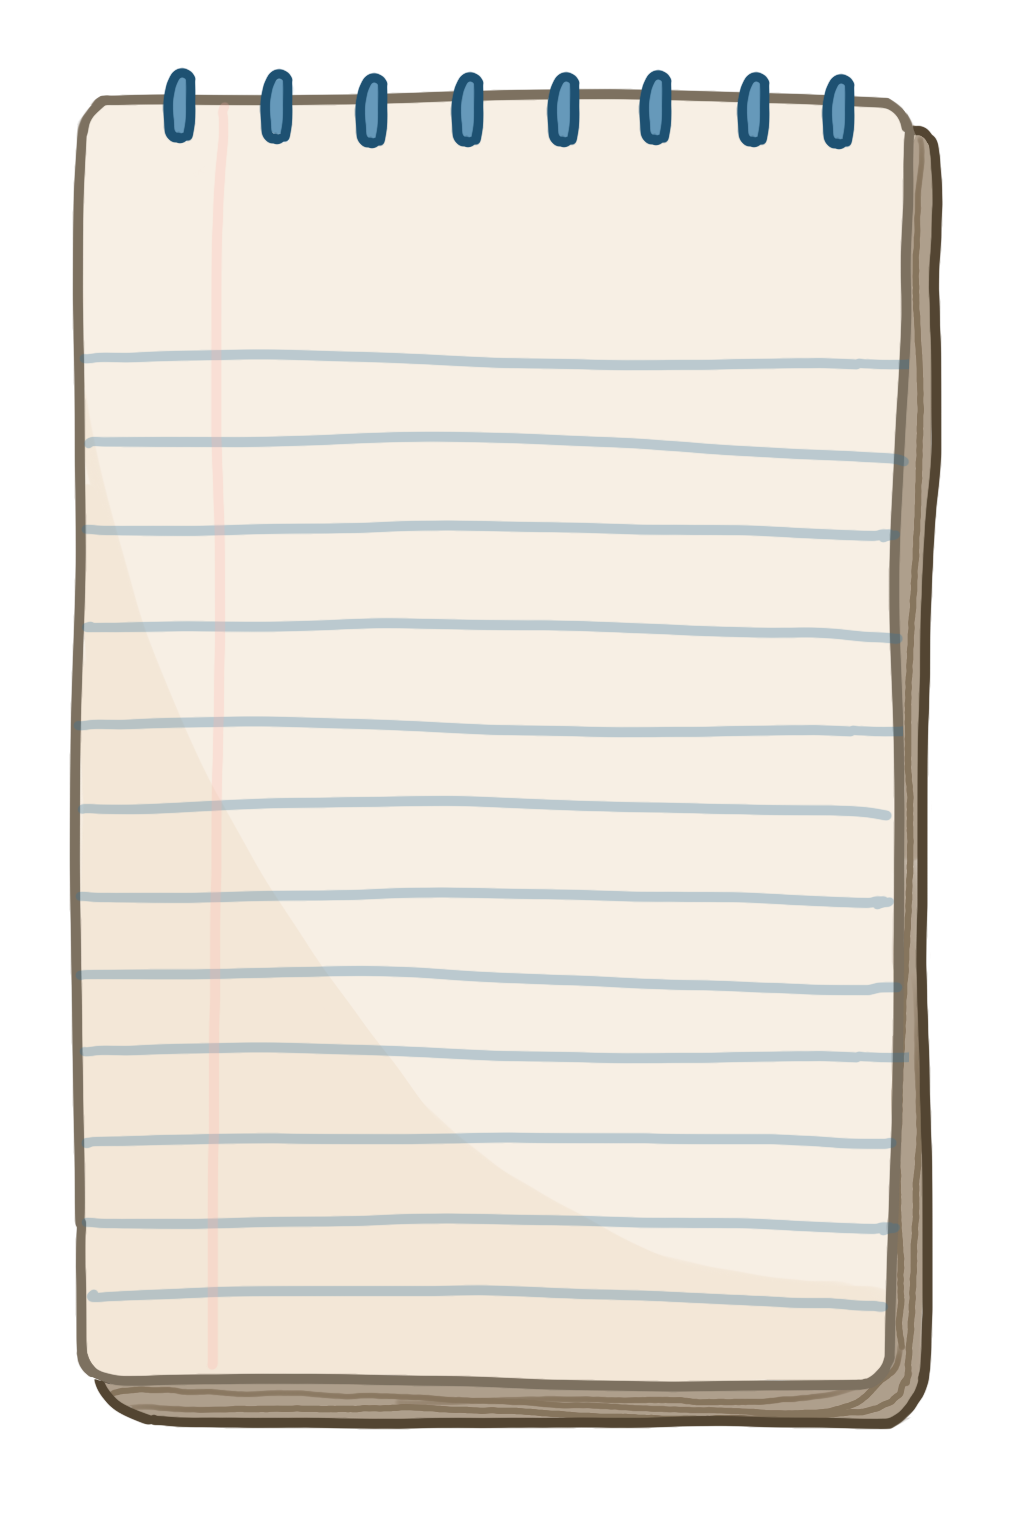
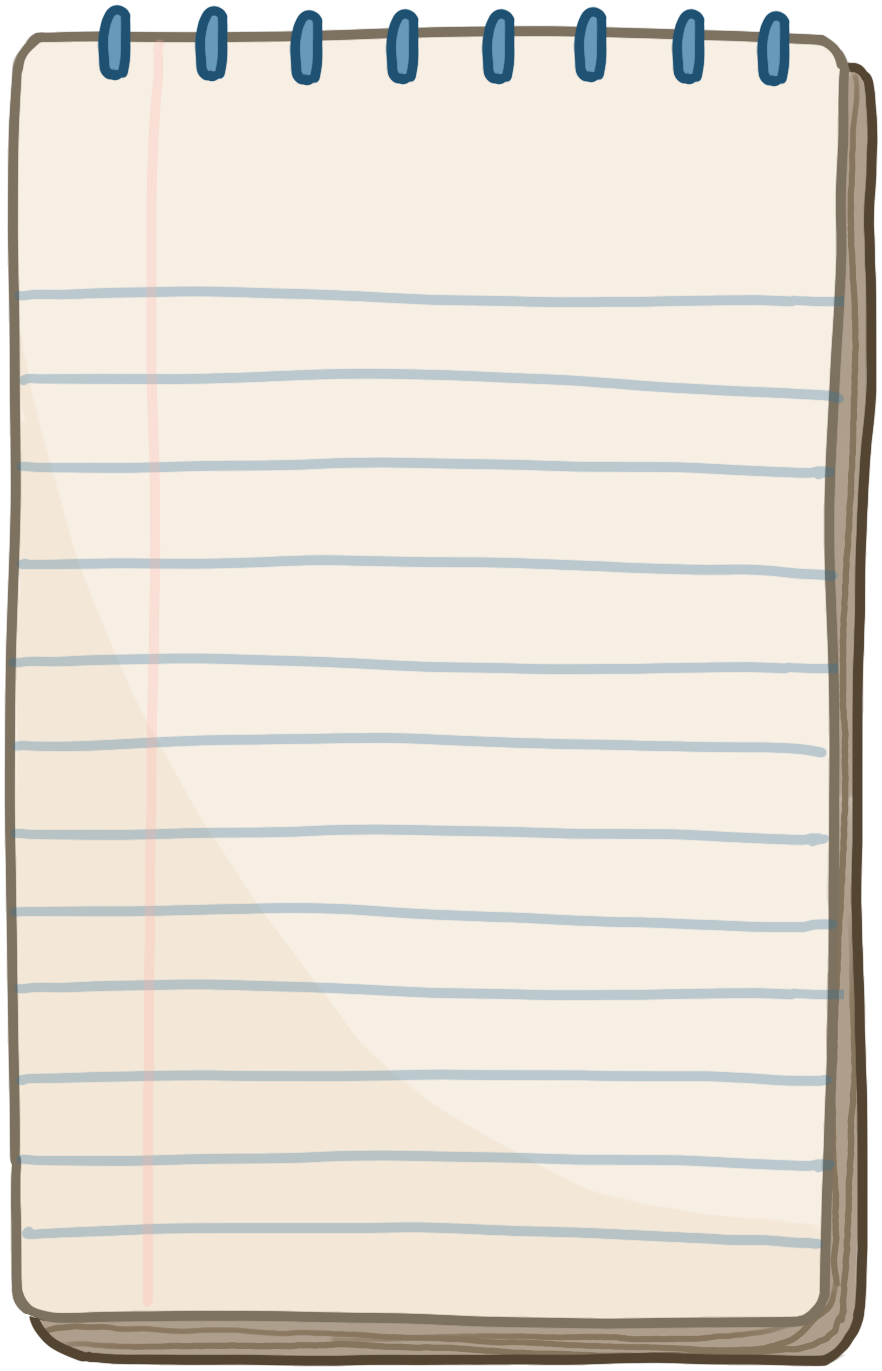
Handwrite the lab instructions on a bigger notebook, Restart pinned to its corner
- Patrick Hand (OFL, bundled from @fontsource so it works offline) for the
  writing on the page; buttons and the answer box keep the app's font.
- The notebook picture is trimmed of its empty border and drawn a little
  wider, so the page and its writing are larger at the same height.
- Restart lab sits at the bottom-right of the page and stays there.
- The note about answers being transcribed and saved is gone.

diff --git a/web/src/ui/LessonStrip.tsx b/web/src/ui/LessonStrip.tsx
@@ -117,13 +117,13 @@ function LessonStrip({ part }: { part: 'bar' | 'panel' }) {
   return (
     <>
       {mode === 'lab' && (
-        // The lesson is written on a notebook page (assets/Notebook.png). The picture keeps its
-        // shape: on a wide screen it is as tall as the mat beside it, and its type grows and
-        // shrinks with it (cqw: a share of the notebook's width), so the page reads the same
-        // on the laptop and on the projector.
+        // The lesson is handwritten on a notebook page (assets/Notebook.png). On a wide screen
+        // it is as tall as the mat beside it, drawn a little wider than the picture (7:10, not
+        // 0.64) so the writing has room. Its type grows and shrinks with it (cqw: a share of
+        // the notebook's width), so the page reads the same on the laptop and the projector.
         <section
           aria-label="Lesson"
-          className="@container relative aspect-[1010/1517] w-full max-w-md shrink-0 self-center lg:h-full lg:w-auto lg:max-w-none"
+          className="@container relative aspect-[7/10] w-full max-w-lg shrink-0 self-center lg:h-full lg:w-auto lg:max-w-none"
         >
           <img
             src={notebookUrl}
@@ -134,13 +134,13 @@ function LessonStrip({ part }: { part: 'bar' | 'panel' }) {
           />
           {/* The writable part of the page: right of the red margin, below the rings. */}
           <div
-            className="absolute overflow-y-auto text-stone-800"
+            className="absolute overflow-y-auto font-['Patrick_Hand'] text-stone-800 [&_button]:font-['Space_Grotesk_Variable'] [&_input]:font-['Space_Grotesk_Variable']"
             style={{
-              left: '23%',
-              right: '13%',
-              top: '12%',
-              bottom: '10%',
-              fontSize: 'clamp(11px, 4.4cqw, 26px)',
+              left: '21%',
+              right: '9%',
+              top: '10%',
+              bottom: '14%', // room for the Restart lab button below
+              fontSize: 'clamp(13px, 5.4cqw, 32px)',
             }}
           >
             <div className="flex flex-wrap items-center justify-between gap-3">
@@ -165,19 +165,6 @@ function LessonStrip({ part }: { part: 'bar' | 'panel' }) {
                       : 'Connecting to the lab…'}
                 </p>
               </div>
-              <button
-                type="button"
-                onClick={restartLesson}
-                disabled={!connected}
-                aria-keyshortcuts="R"
-                title="Restart at step 1 and 3 V. Put the pieces back in the starting layout."
-                className="cursor-pointer rounded-lg bg-stone-900/10 px-[0.7em] py-[0.35em] text-[0.85em] font-semibold hover:bg-stone-900/20 focus-visible:outline-4 focus-visible:outline-sky-600 disabled:cursor-default disabled:opacity-40"
-              >
-                Restart{' '}
-                <kbd className="ml-2 rounded bg-stone-900/10 px-[0.4em] py-[0.1em] text-[0.8em]">
-                  R
-                </kbd>
-              </button>
             </div>
             {ready && lesson.reflection && lesson.reflectionStatus && (
               <Reflection lesson={lesson} onSkip={continueLesson} />
@@ -207,6 +194,20 @@ function LessonStrip({ part }: { part: 'bar' | 'panel' }) {
               </div>
             )}
           </div>
+          {/* Pinned to the page's bottom-right corner, outside the writing, so it is always
+              in the same place whatever the page says. */}
+          <button
+            type="button"
+            onClick={restartLesson}
+            disabled={!connected}
+            aria-keyshortcuts="R"
+            title="Restart at step 1 and 3 V. Put the pieces back in the starting layout."
+            className="absolute cursor-pointer rounded-lg bg-stone-800 px-[0.8em] py-[0.35em] font-['Space_Grotesk_Variable'] font-semibold text-white hover:bg-stone-700 focus-visible:outline-4 focus-visible:outline-sky-600 disabled:cursor-default disabled:opacity-40"
+            style={{ right: '9%', bottom: '5%', fontSize: 'clamp(11px, 4.2cqw, 24px)' }}
+          >
+            Restart lab{' '}
+            <kbd className="ml-2 rounded bg-white/20 px-[0.4em] py-[0.1em] text-[0.8em]">R</kbd>
+          </button>
         </section>
       )}
     </>

diff --git a/web/src/ui/Reflection.tsx b/web/src/ui/Reflection.tsx
@@ -250,9 +250,7 @@ export function Reflection({ lesson, onSkip }: { lesson: Lesson; onSkip: () => v
           ) : (
             'The microphone opens when the question has been asked.'
           )
-        ) : (
-          'What you answer is transcribed and graded, and the words are saved on this laptop. The sound is not kept.'
-        )}
+        ) : null}
       </p>
     </div>
   )

diff --git a/web/src/index.css b/web/src/index.css
@@ -1,6 +1,8 @@
 @import 'tailwindcss';
 /* Bundled with the app, so the font loads with Wi-Fi off. */
 @import '@fontsource-variable/space-grotesk';
+/* The lab instructions are handwritten on the notebook page. Also bundled. */
+@import '@fontsource/patrick-hand';
 
 @theme {
   /* An overloaded wire throbs. Faster and deeper than Tailwind's pulse, so it reads as alarm. */
